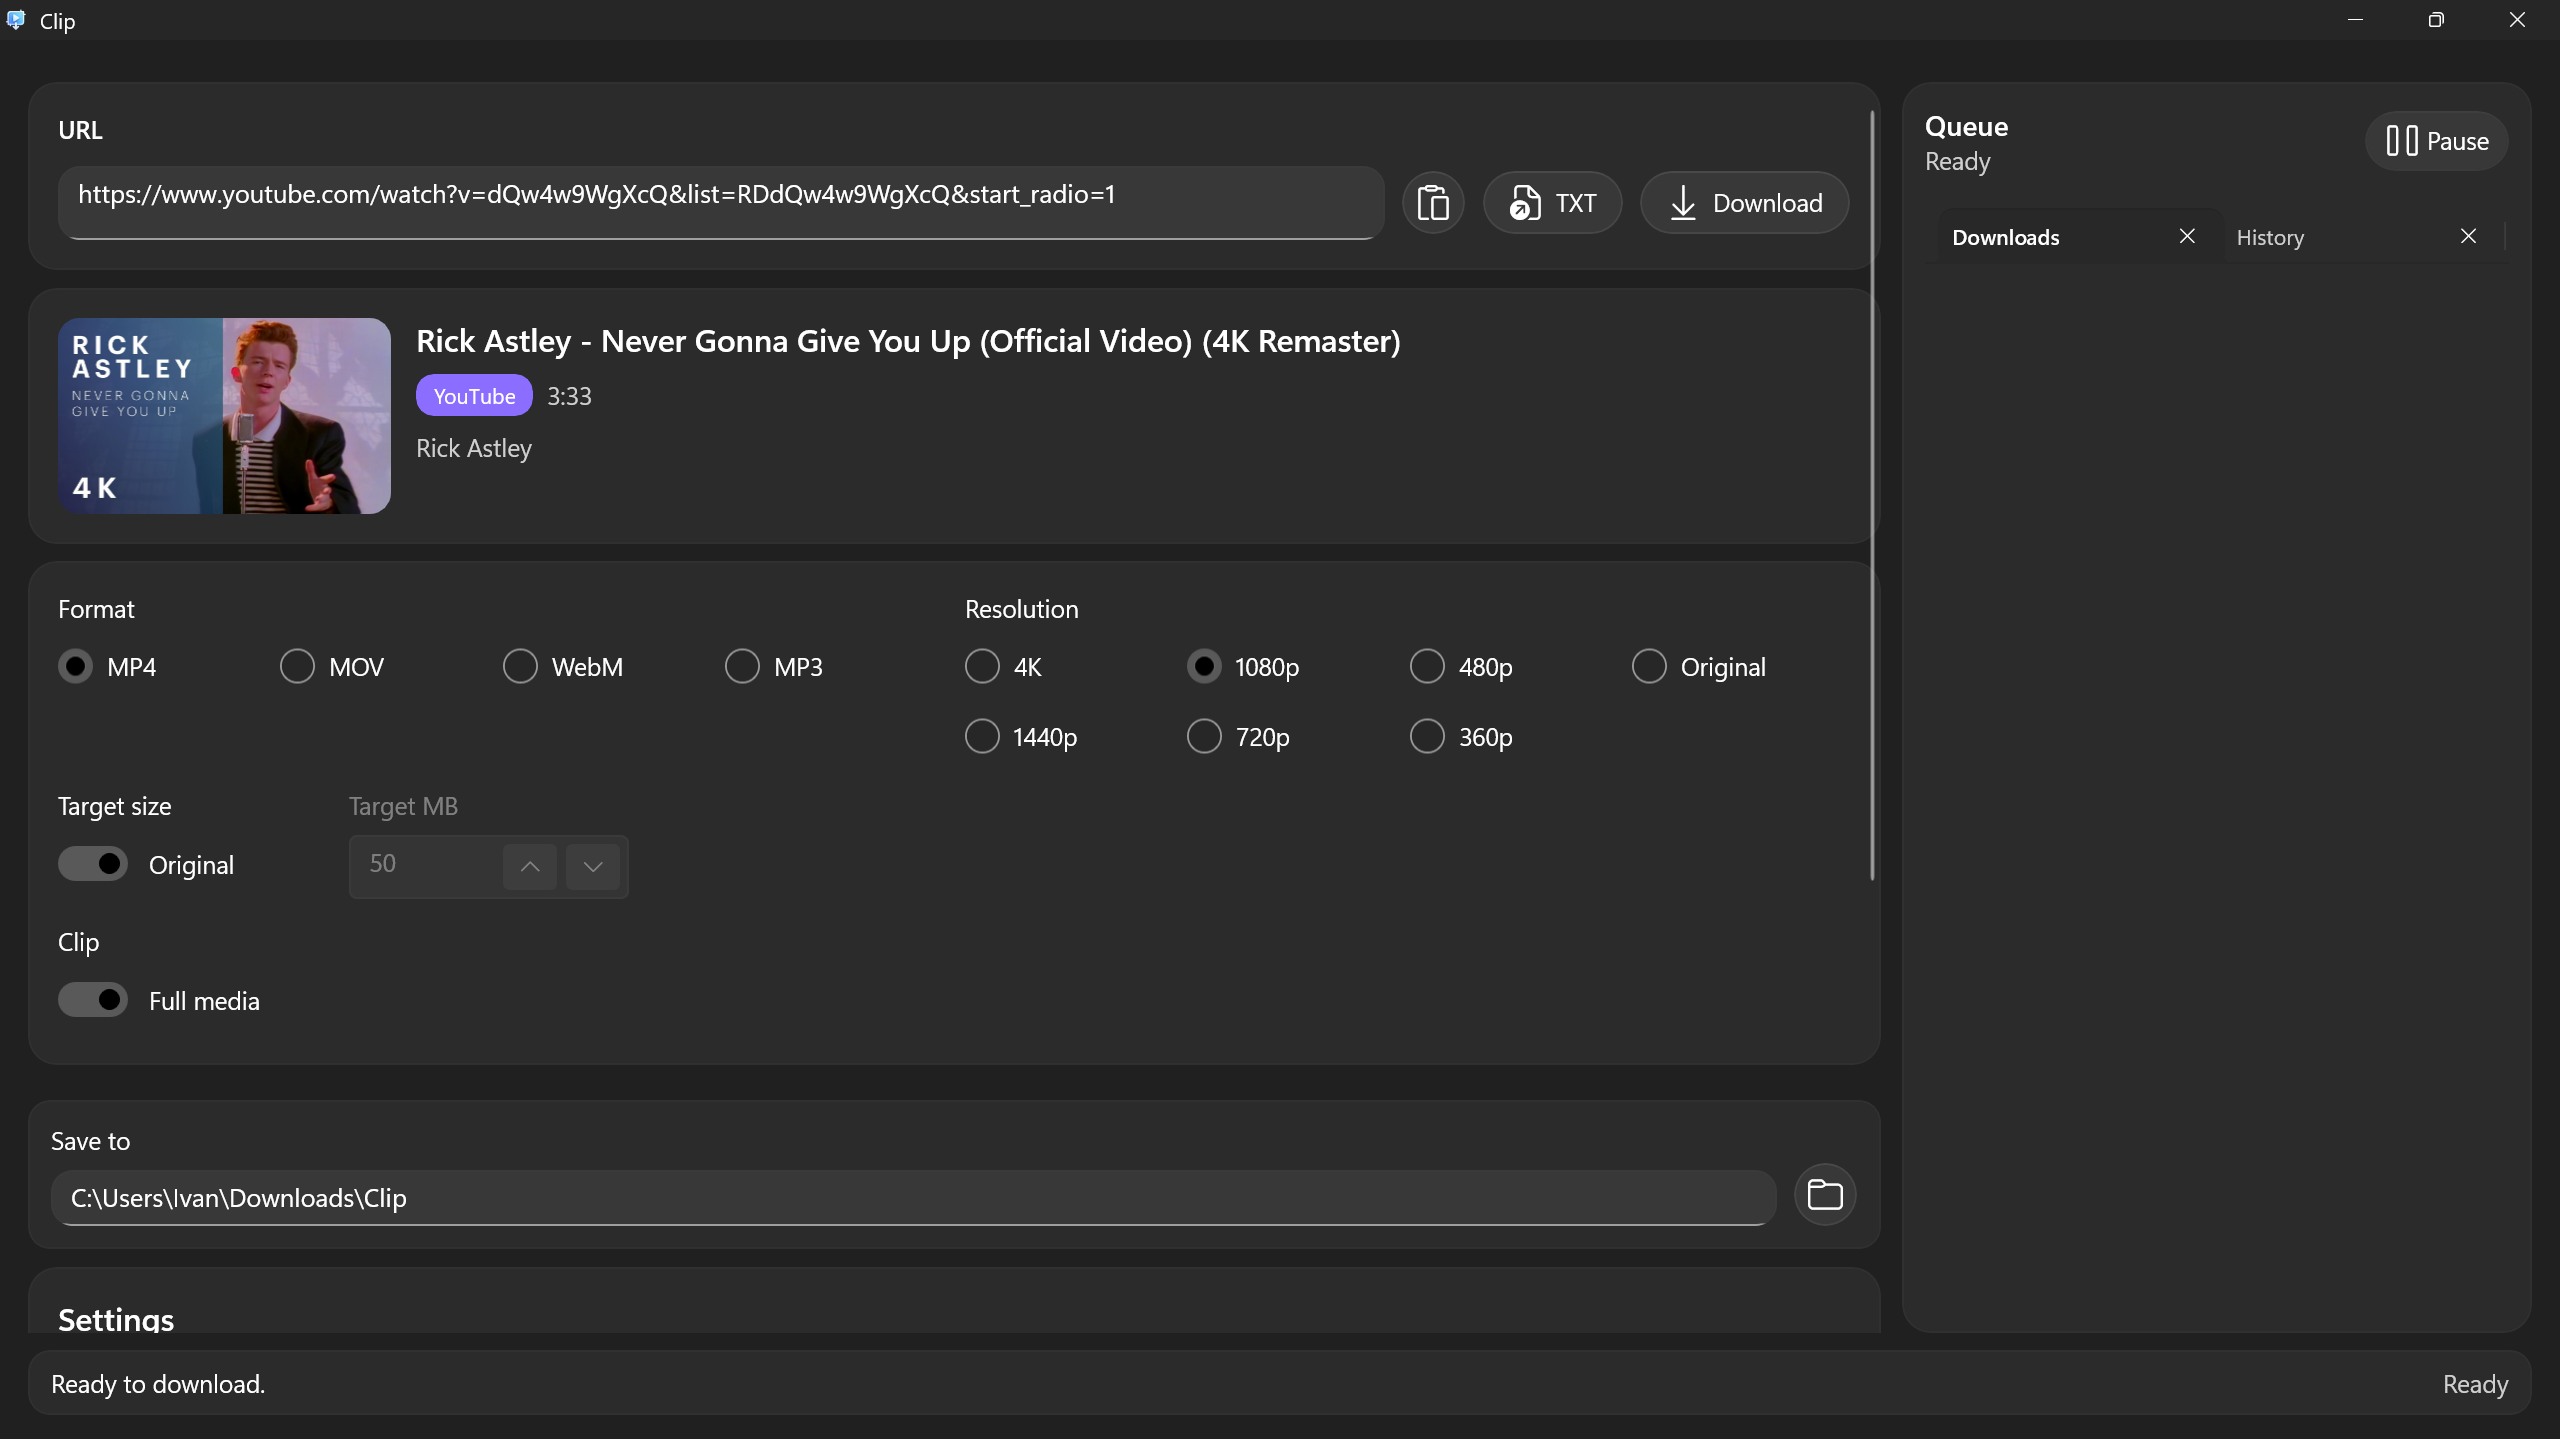
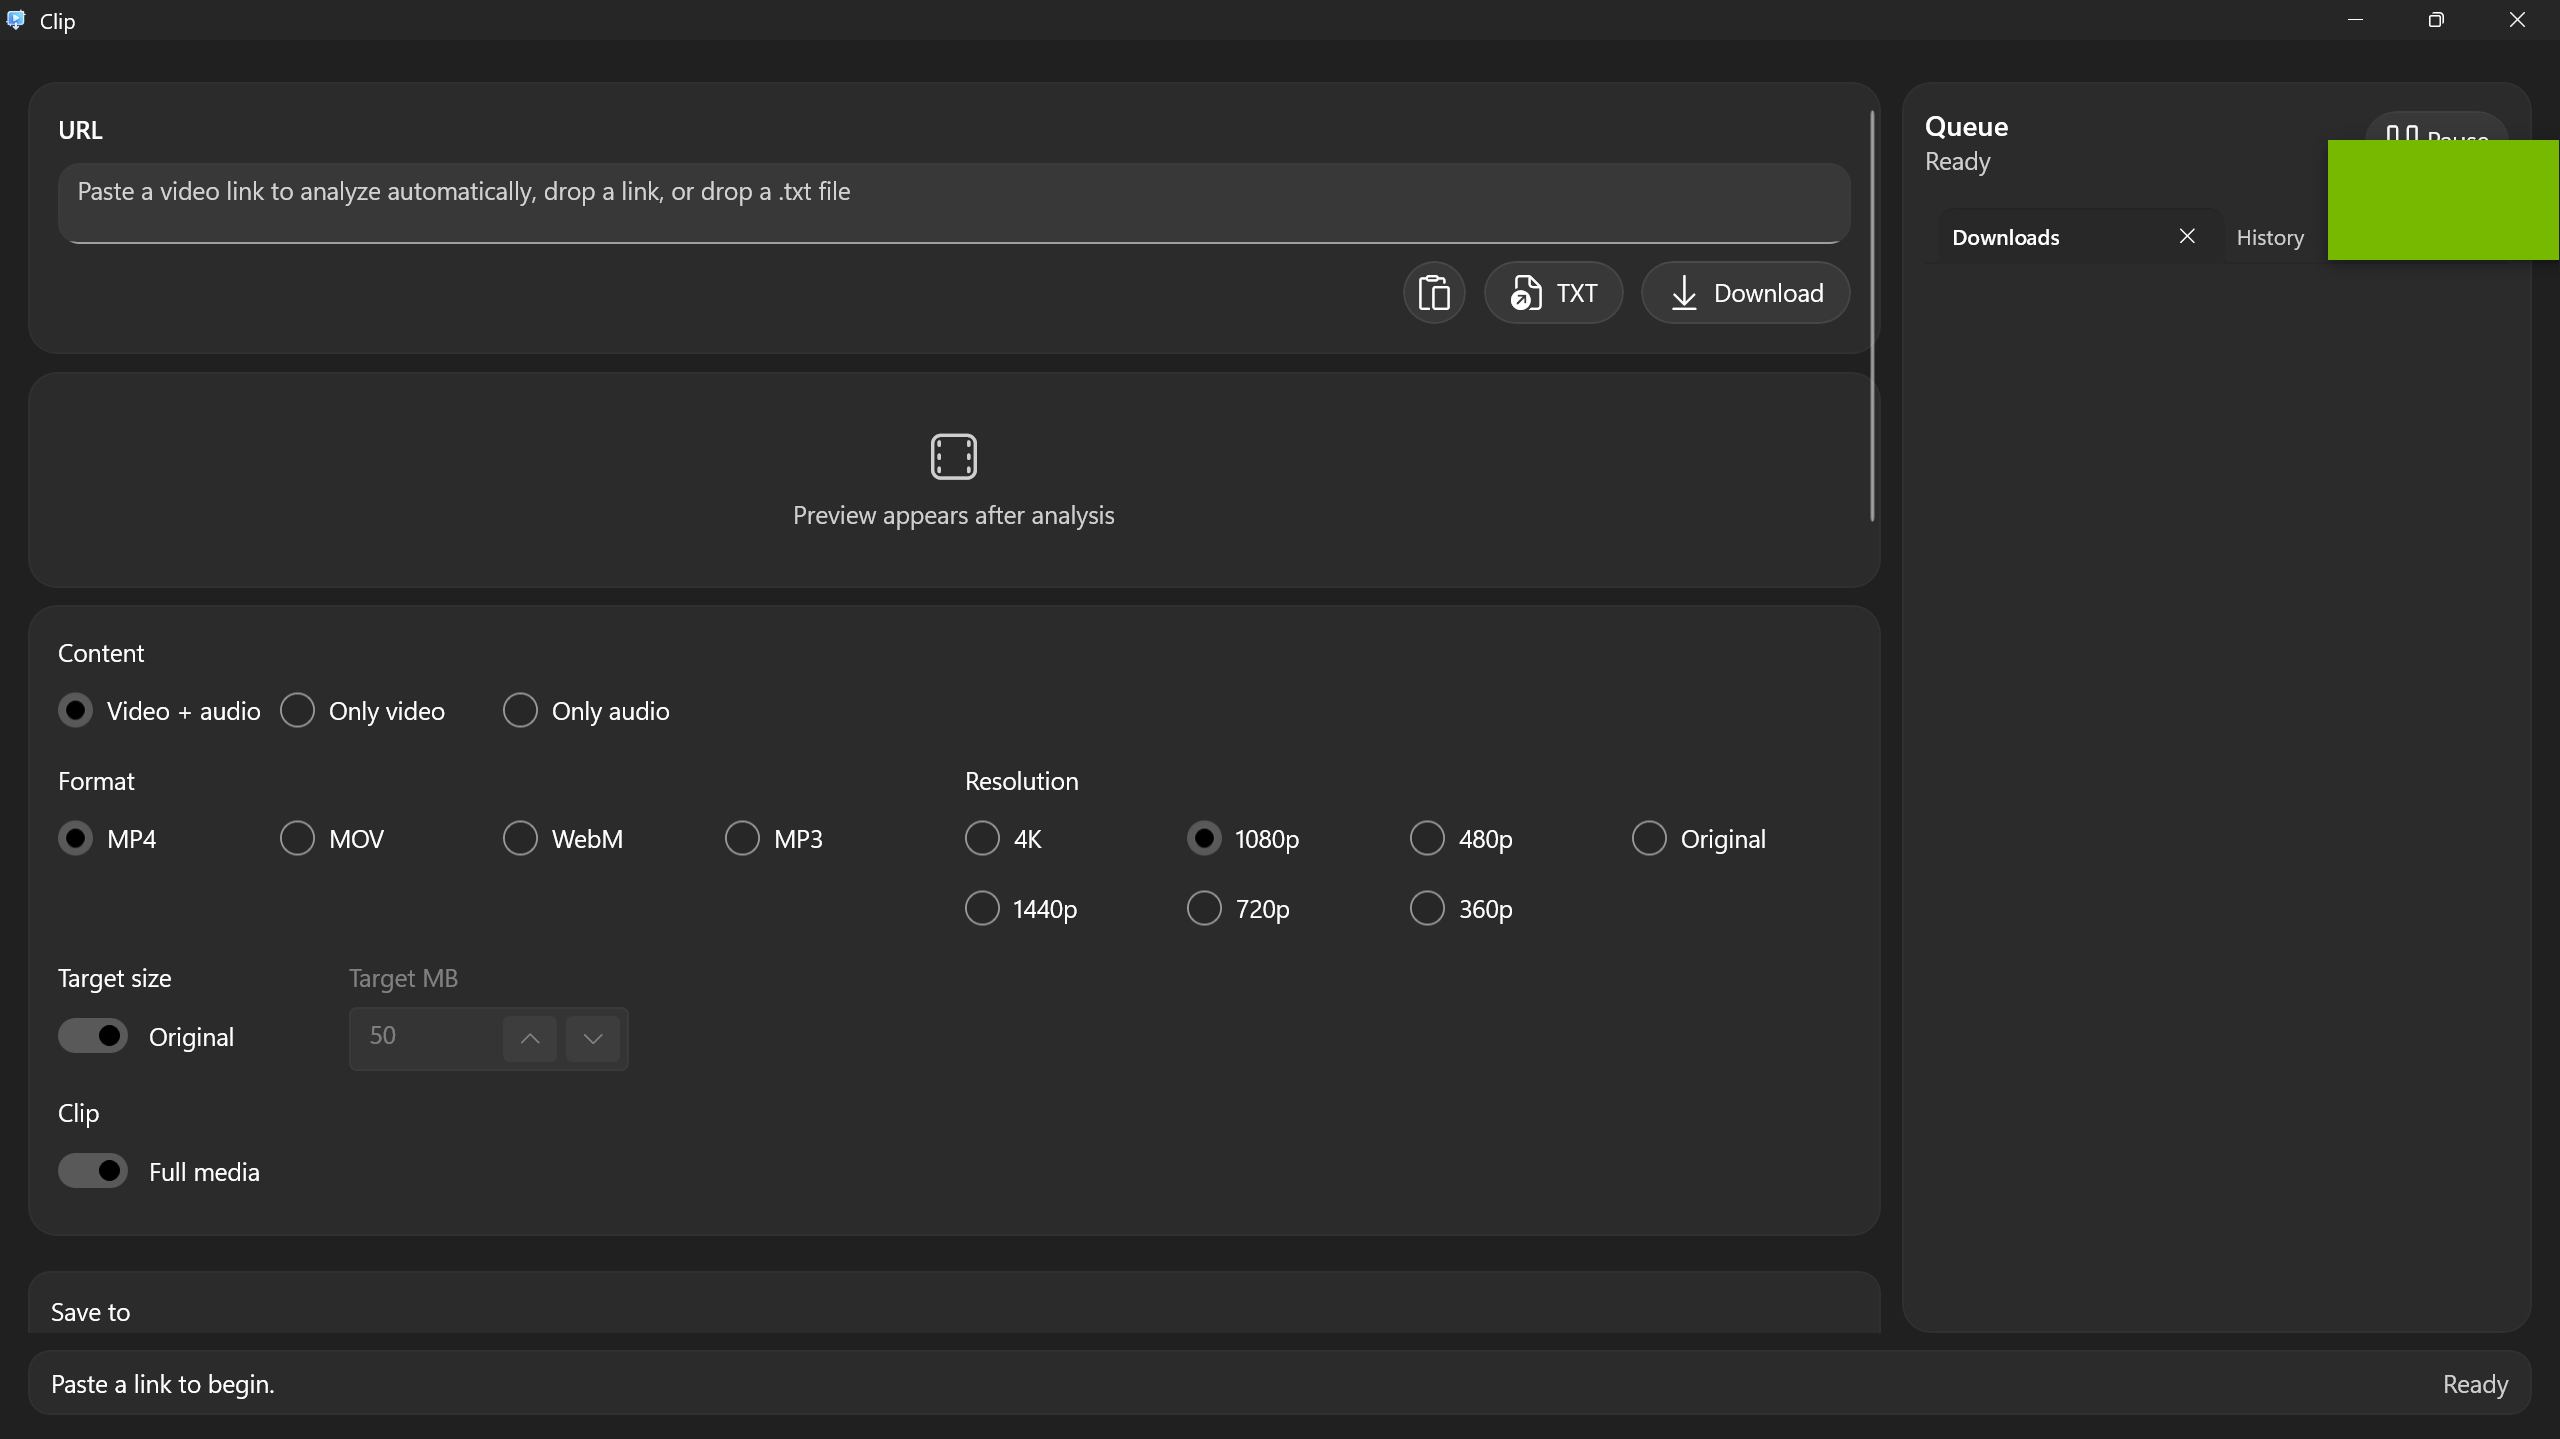
Add screenshots section to README

diff --git a/README.md b/README.md
@@ -13,9 +13,16 @@
 
 Clip is a Windows-only WinUI 3 desktop app for downloading video and audio from supported links. It uses `yt-dlp`, `ffmpeg`, and `ffprobe` for media work, and keeps a native Windows shell with tray behavior, clipboard monitoring, queue controls, history, trim, compression, and update helpers.
 
+## Screenshots
+
+![Main window](docs/screenshots/main-window.png)
+![Download queue](docs/screenshots/download-queue.png)
+![Settings](docs/screenshots/settings.png)
+
 ## Contents
 
 - [Features](#features)
+- [Screenshots](#screenshots)
 - [Supported Services](#supported-services)
 - [Tray Menu](#tray-menu)
 - [TXT Import](#txt-import)
